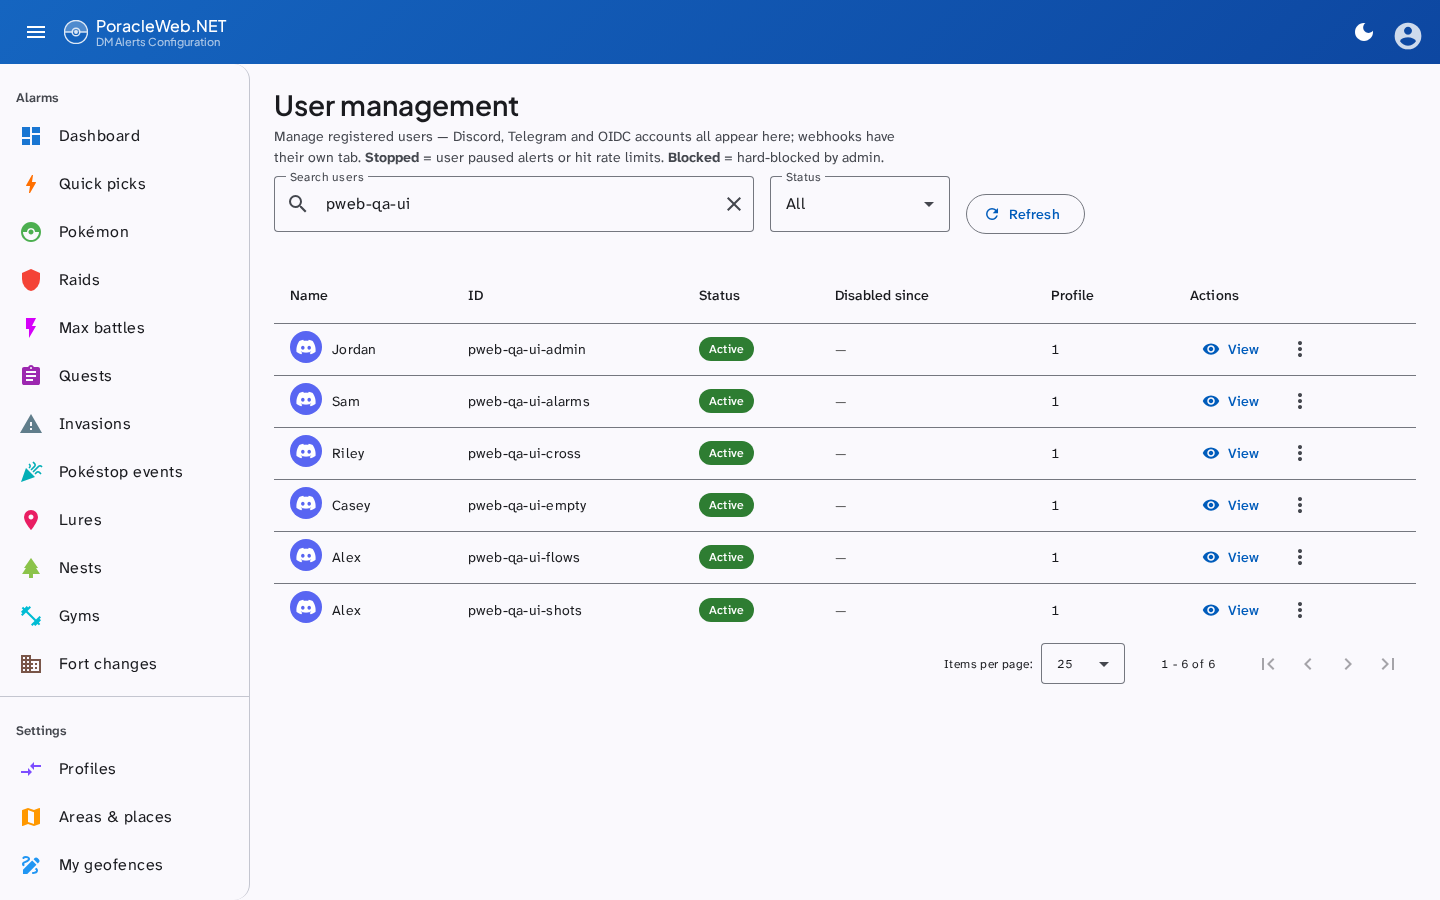
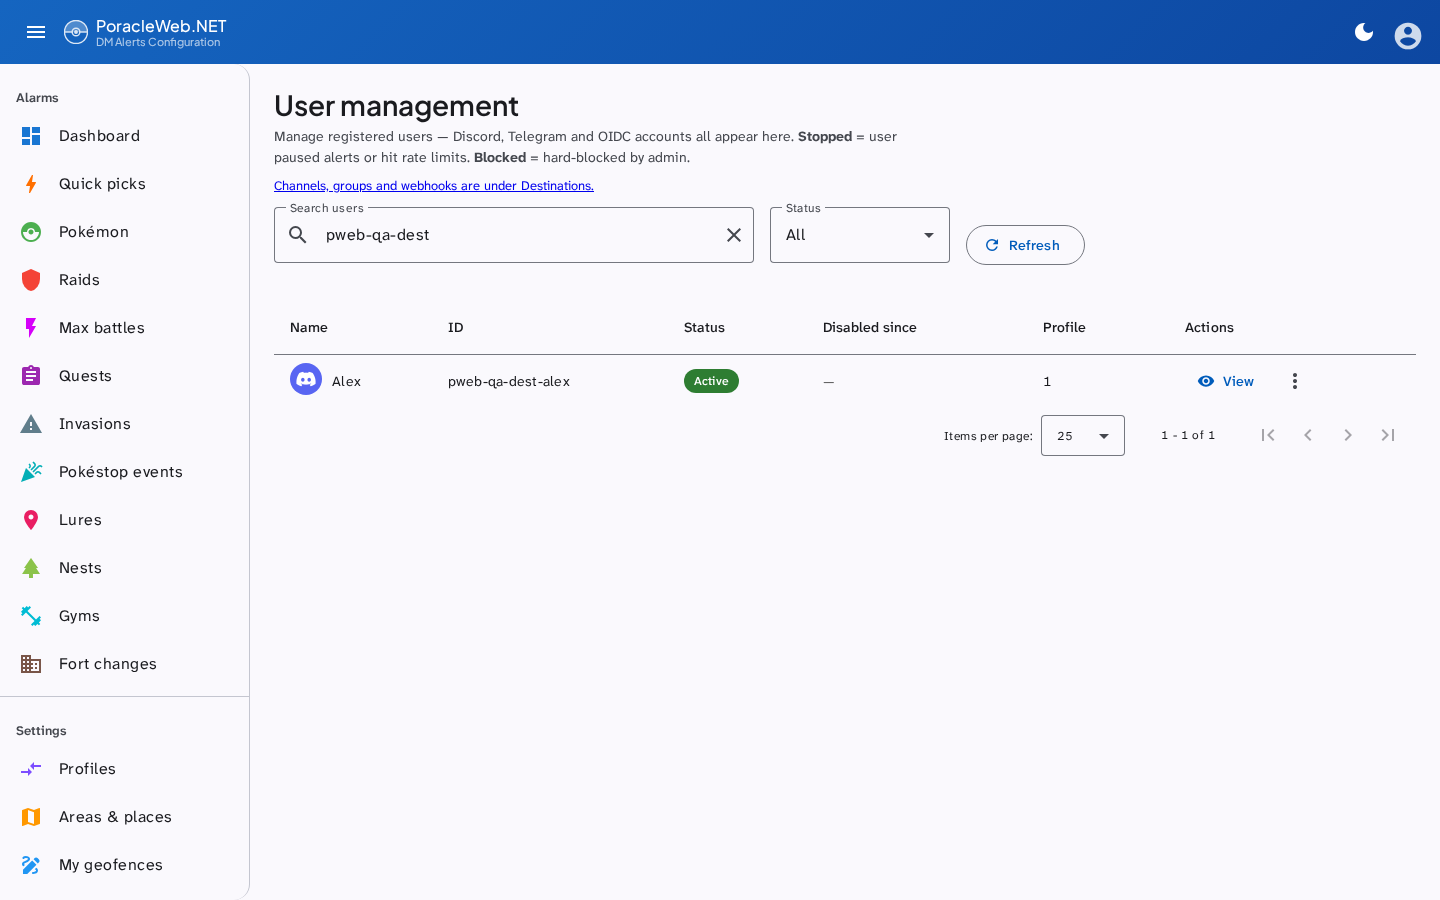
docs: screenshots for Destinations and My Destinations (#1025)

diff --git a/docs/features/webhooks.md b/docs/features/webhooks.md
@@ -61,7 +61,7 @@ record is removed, so a failure means nothing was created and a retry is safe.
 The same page can pause, resume, block, delete the account's alarms, delete the account outright, and
 open its alarms directly (see [what a delegate can do](#what-a-delegate-can-do)).
 
-![Admin → Destinations filtered to one example.com webhook, with its row actions](../screenshots/admin-webhooks.png)
+![Admin → Destinations listing one of each kind (webhook, Discord channel and thread, Telegram channel, group and topic) with type chips, delegates and row actions](../screenshots/admin-destinations.png)
 
 Deleting a webhook takes everything it owned with it, delegate grants included. Recreating the same
 URL later starts clean rather than adopting the old grants.
@@ -103,7 +103,7 @@ to My Destinations. A session that ends because the grant was revoked lands ther
 The page used to be **My Webhooks** at `/my-webhooks`. That address redirects, so old bookmarks still
 work.
 
-![My Webhooks for a delegate, listing one webhook with its Manage Alarms button](../screenshots/my-webhooks.png)
+![My Destinations for a delegate, listing a Telegram group, a Discord channel and a webhook, each with a Manage alarms button](../screenshots/my-destinations.png)
 
 A delegate **cannot** create or delete destinations, grant delegation to anyone else, or reach any
 admin page. Their access is exactly the destinations granted to them and nothing more, re-checked on
